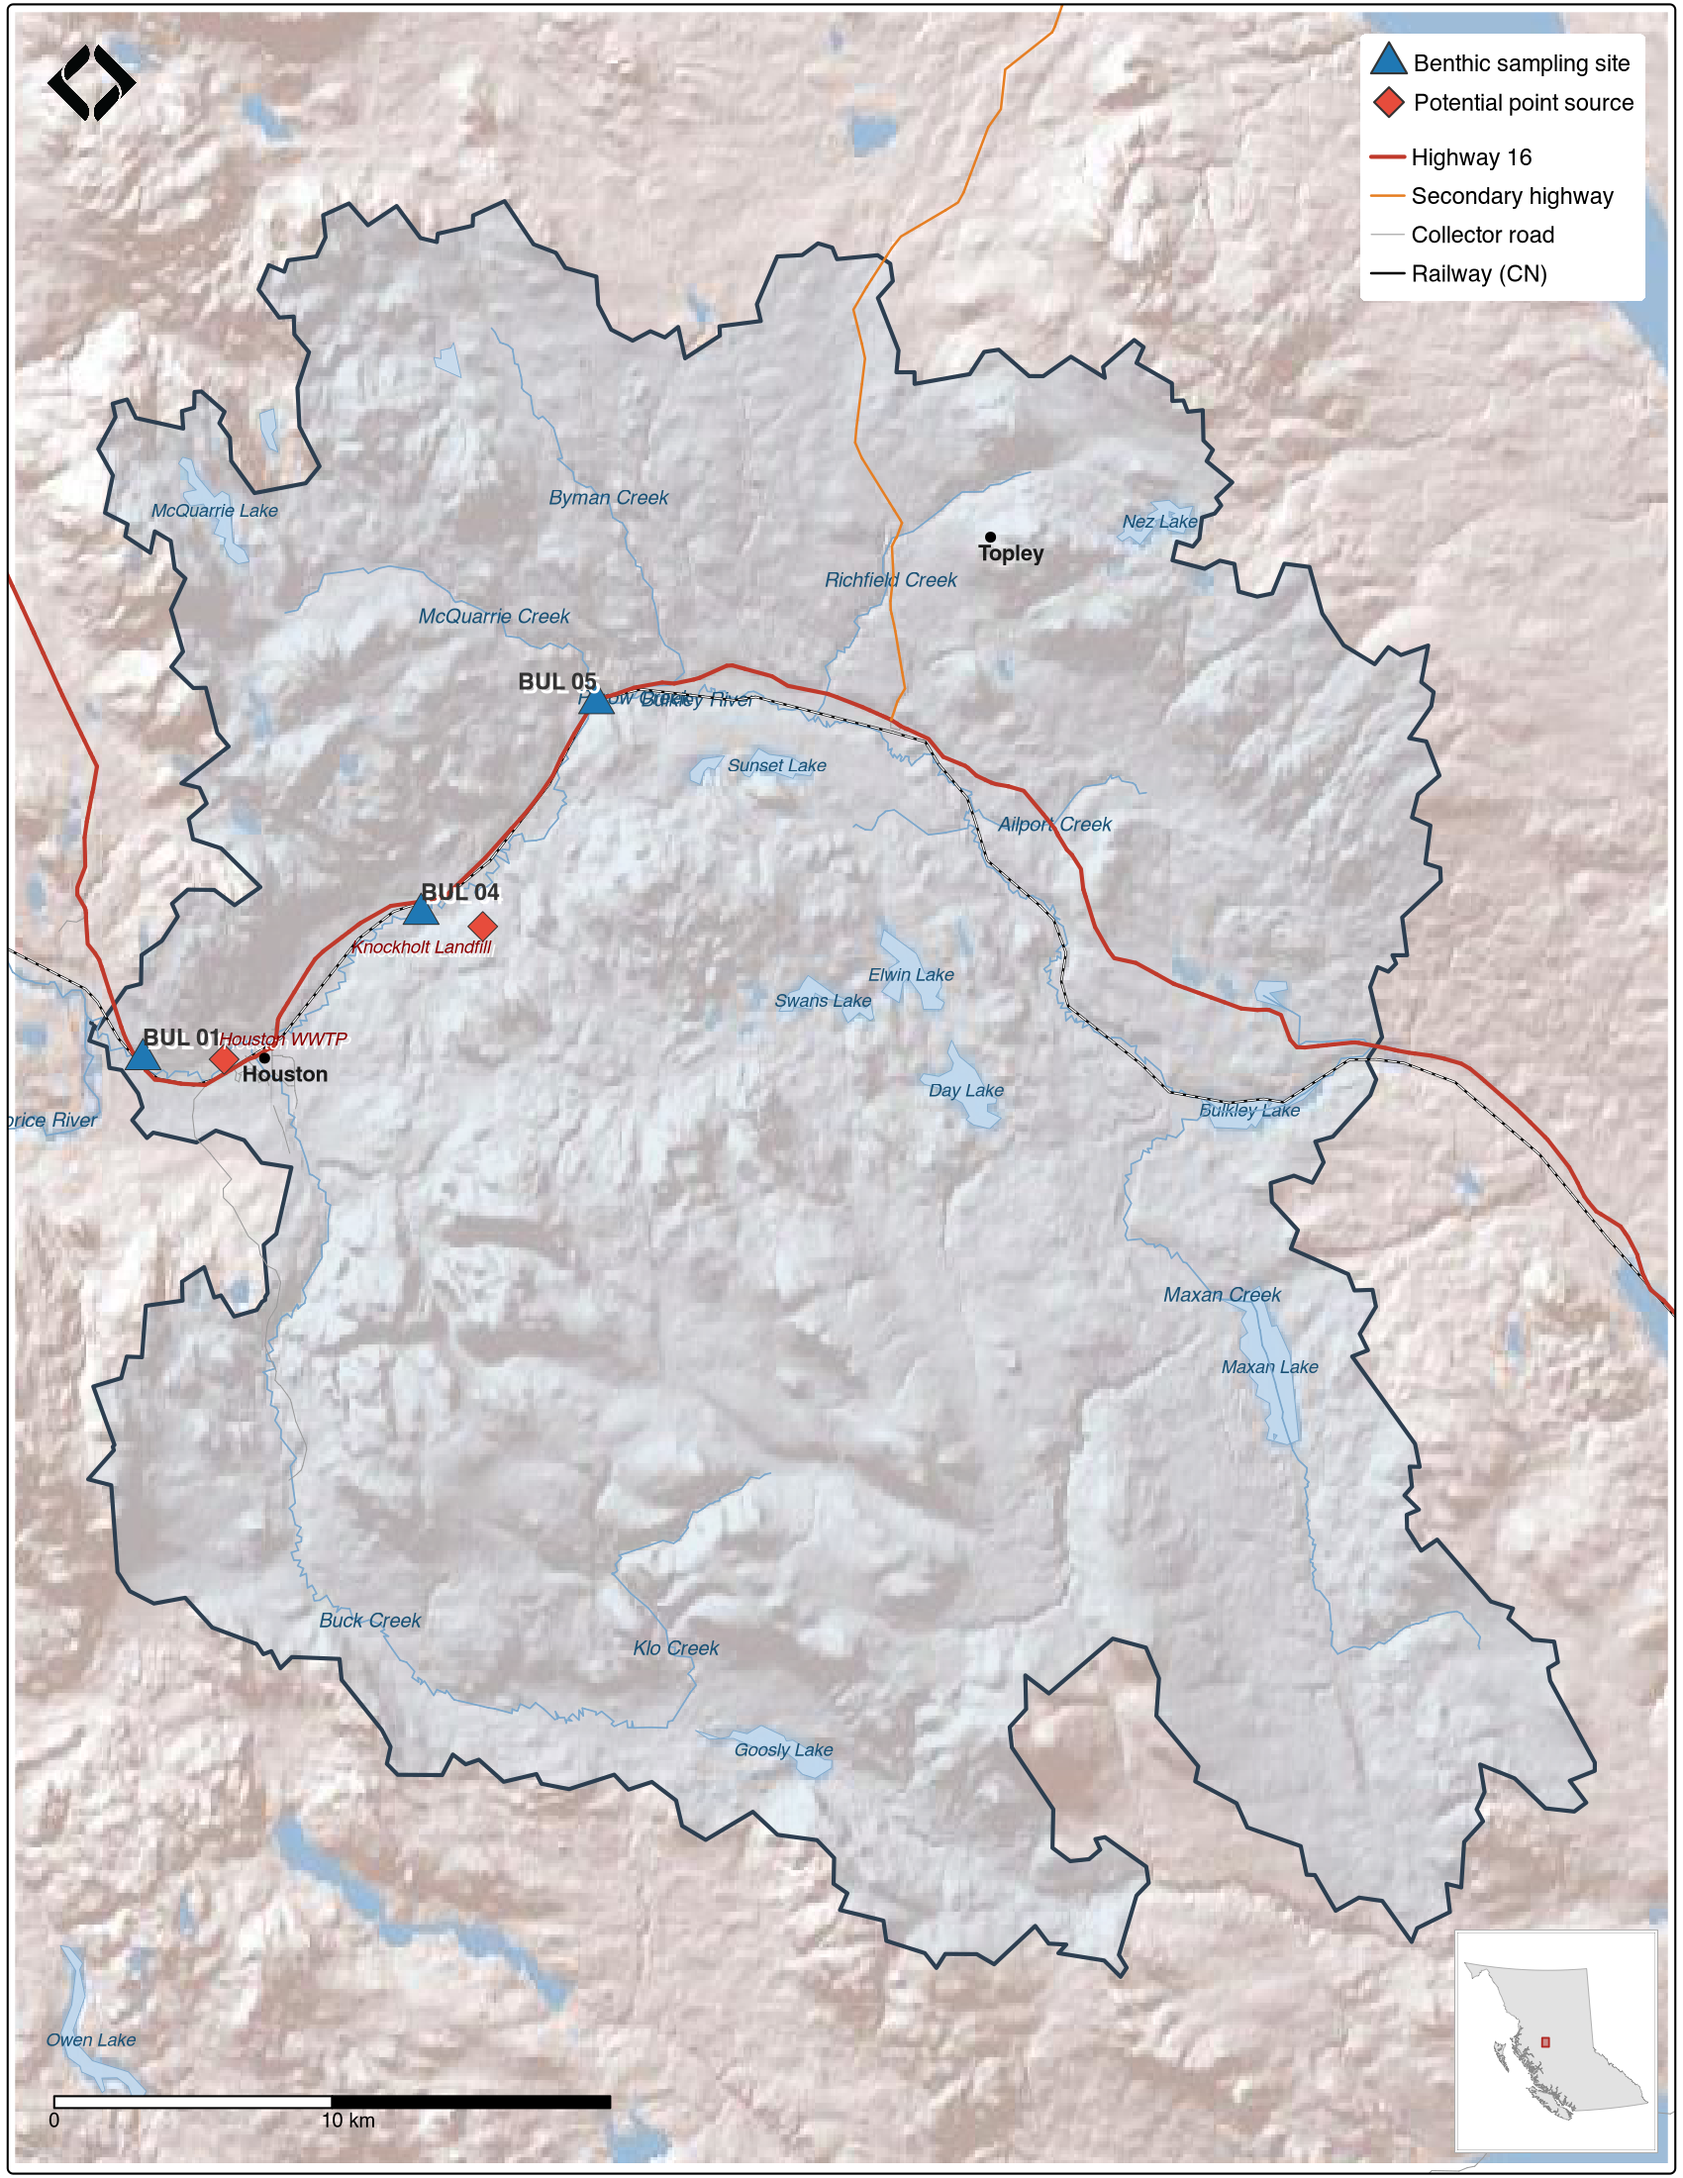
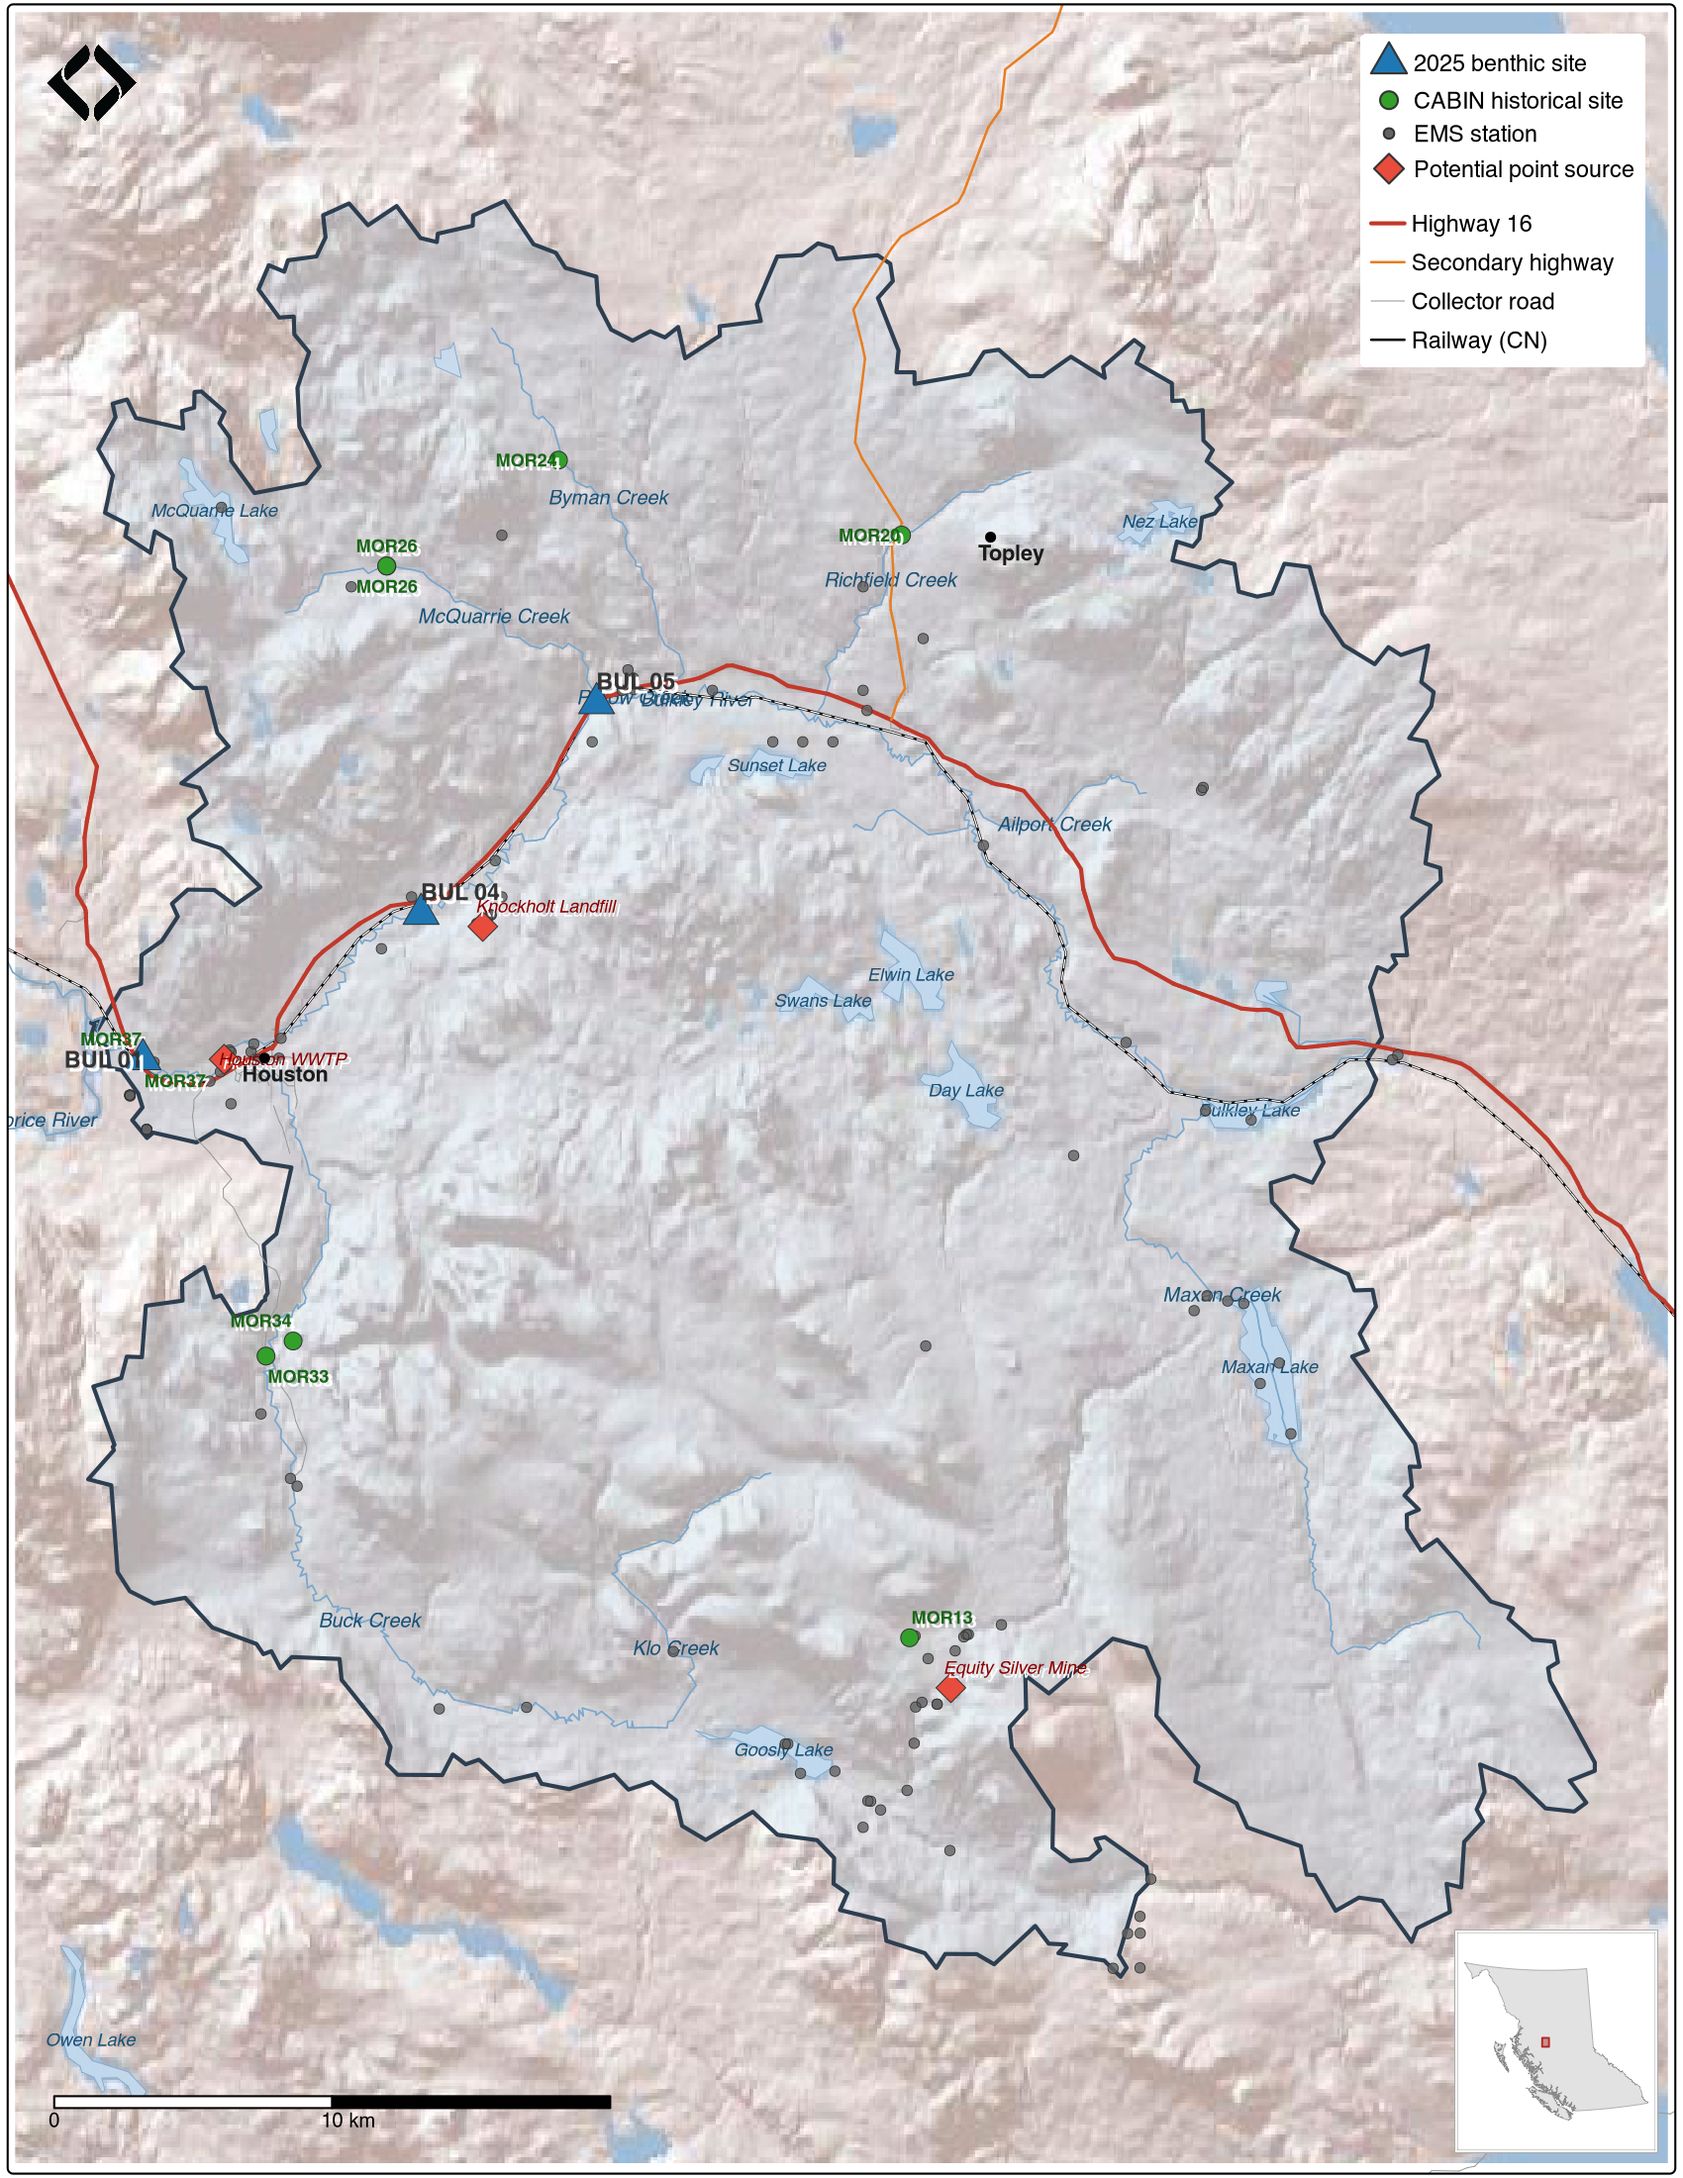
Add CABIN/RCA context to background, consolidate site map
- Add Previous Benthic Monitoring section citing Bennett 2011 (Skeena
  RCA model) and Perrin et al. 2007, with CABIN sites table and map
- Add CABIN historical sites, EMS stations, and Equity Silver Mine
  layers to map_benthic-sites.R static map
- Move map from methods to background; methods now cross-references it
- Add CABIN sites spatially filtered to Neexdzii Kwa watershed
- Draft email to OW re: CABIN data submission under ESI study (Issue #6)

Relates to #5
Relates to #6

diff --git a/communications/20260310_teagan_cabin-submission_draft.md b/communications/20260310_teagan_cabin-submission_draft.md
@@ -1,0 +1,19 @@
+Hi Teagan and Sam,
+
+Hope things are going well. Quick question on the benthic work we did on the Neexdzii Kwa this spring.
+
+We collected CABIN kick-net samples at three mainstem sites and have results back from the lab. One of our sites (BUL-01, next to the rest stop just past the North Road bridge outside Houston near the Morice FSR turnoff) is at the same location as CABIN site MOR37 ("Upper Bulkley @ Morice") which was sampled in 2004 and again in 2018 under the Wet'suwet'en ESI study. Adding our 2025 data as a third visit to MOR37 would build a 20-year monitoring record at that site — pretty rare for a CABIN site in the region.
+
+We have our own approved CABIN study ("BC-Neexdzi Kwa") and can upload the data right away. But if you'd prefer the data loaded under the ESI study instead, that would keep the Wet'suwet'en aquatic monitoring record together in one project. Having everything in one place means your team can run BEAST assessments across all your sites and years in a single view, and it strengthens the case for continued monitoring funding down the road.
+
+If that's of interest it would probably just take a quick email from someone on your end to Stephanie Strachan at ECCC (stephanie.strachan@ec.gc.ca) asking her to grant me access to the ESI project. We'd take care of all the data entry from there.
+
+We've also set up a standalone report to present the benthic data and interpretation. It's still coming together but you can check it out as it progresses here:
+
+https://www.newgraphenvironment.com/neexdzii_kwa_benthic_2025/
+
+Password: Yintah
+
+Thanks,
+
+Al
